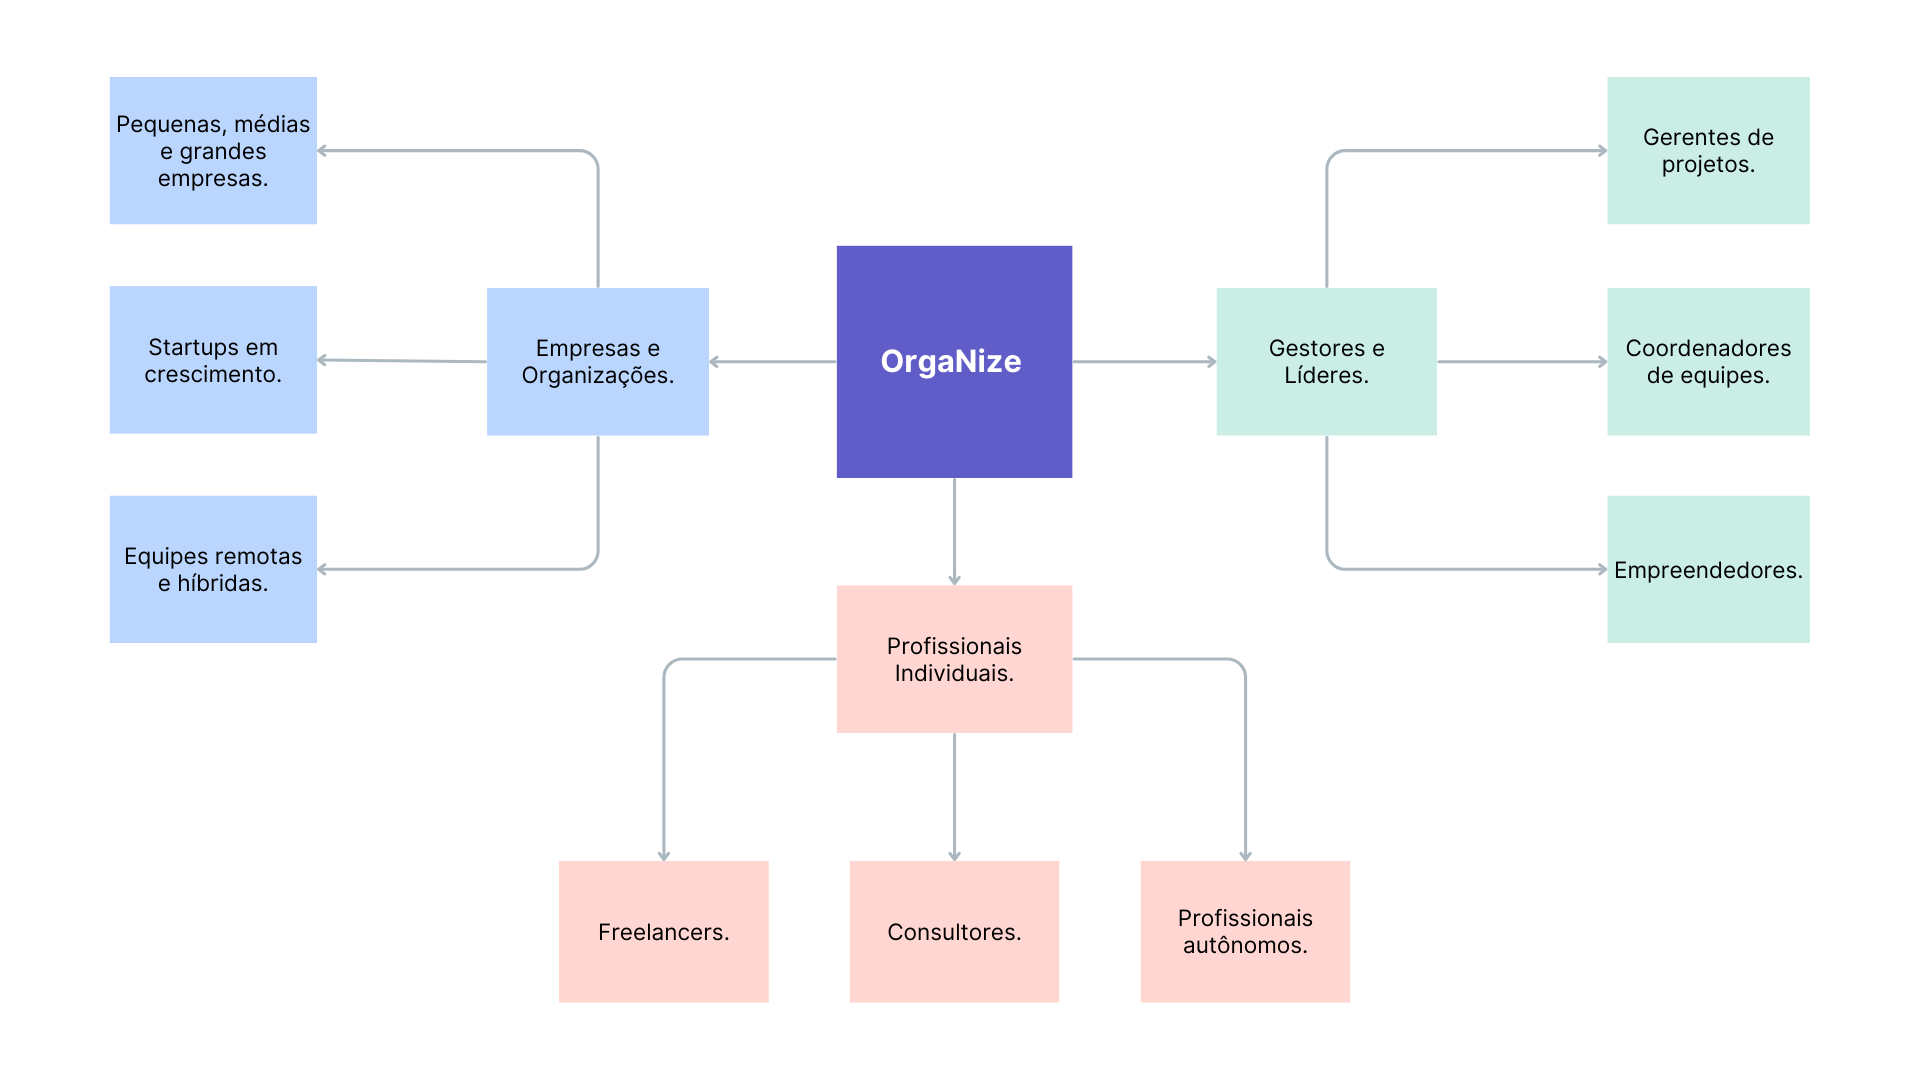
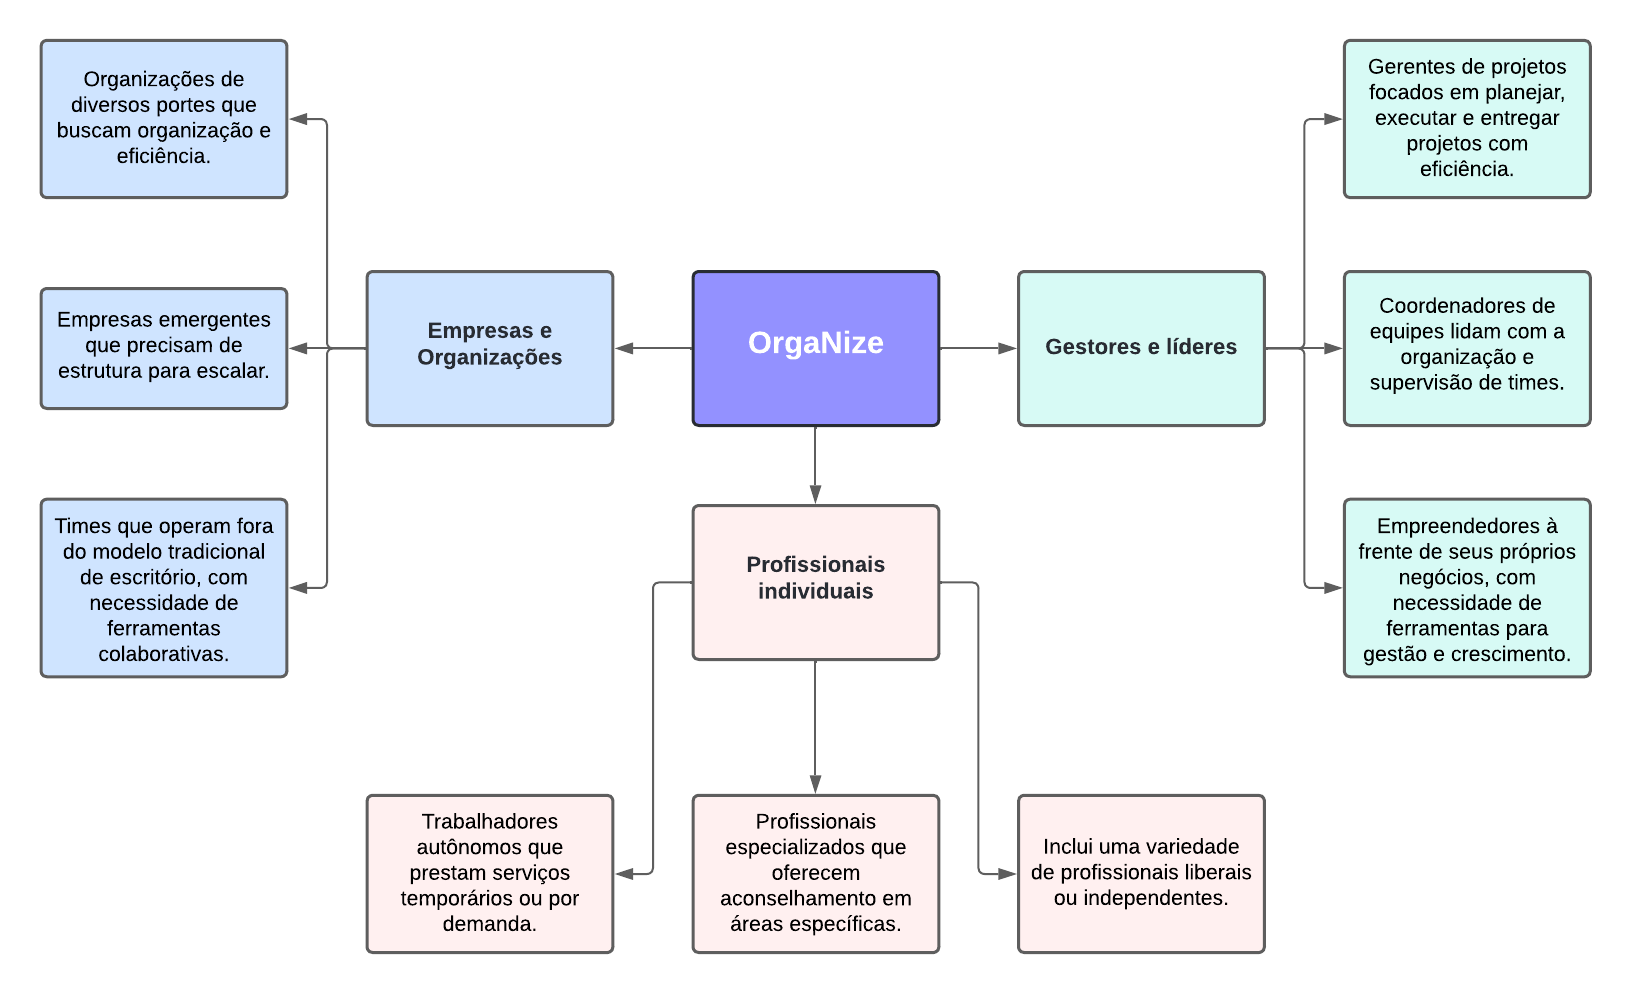
Atualização da documentação - Etapa 2

diff --git a/docs/02-Especificação do Projeto.md b/docs/02-Especificação do Projeto.md
@@ -58,28 +58,25 @@ As tabelas que se seguem apresentam os requisitos funcionais e não funcionais q
 
 ### Requisitos Funcionais
 
-| ID     | Descrição do Requisito                                                                     | Prioridade | Responsável  |
-| ------ | ------------------------------------------------------------------------------------------ | ---------- | ------------ |
-| RF-001 | Permitir que os usuários criem uma conta na plataforma.                                    | ALTA       | Bernardo |
-| RF-002 | Permitir a autenticação dos usuários na plataforma via e-mail e senha.                     | ALTA       | Bernardo |
-| RF-003 | Permitir que os usuários façam logout na plataforma.                                       | ALTA       | Bernardo |
-| RF-004 | Permitir a redefinição de senha dos usuários na plataforma.                                | ALTA       | Guilherme |
-| RF-005 | Permitir a leitura, criação e edição de tarefas na plataforma.                            | ALTA       | Helbert |
-| RF-006 | Permitir que o sistema notifique sobre os prazos e atualizações das tarefas na plataforma. | MÉDIA      | A definir... |
-| RF-007 | Permitir a atribuição e delegação de tarefas entre usuários.                               | MÉDIA      | Helbert |
-| RF-008 | Permitir a visualização do painel de status das tarefas, exemplo: 5/10.                    | MÉDIA      | A definir... |
-| RF-009 | Permitir a classificação de tarefas por prioridade (alta, média ou baixa) e categoria.     | MÉDIA      | A definir... |
-| RF-010 | Permitir a geração de relatórios dentro da plataforma.                                     | BAIXA      | A definir... |
-| RF-011 | Permitir a criacao de usuario "Admin".                                                     | BAIXA      | A definir... |
-| RF-012 | Permitir login por OAuth2                                                                  | BAIXA      | A definir... |
-| RF-013 | Permitir a leitura, edição e exclusão de dados pessoais ao usuário                         | ALTA      | Guilherme |
-| RF-014 | Permitir a leitura de tarefas com base no status ou prioridade                         | ALTA      | Jefferson |
-| RF-015 | Permitir a exclusão de tarefas                         | ALTA      | Jefferson |
-| RF-016 | Permitir a Criação, edição, leitura e exclusão de grupo de tarefas                         | ALTA      | Jonatas |
-| RF-017 | Permitir a adição e exclusão de membro(s) do grupo de tarefas                         | ALTA      | Jonatas |
-
-
-
+| ID     | Descrição do Requisito                                                                     | Prioridade | Responsável |
+| ------ | ------------------------------------------------------------------------------------------ | ---------- | ----------- |
+| RF-001 | Permitir que os usuários criem uma conta na plataforma.                                    | ALTA       | Bernardo    |
+| RF-002 | Permitir a autenticação dos usuários na plataforma via e-mail e senha.                     | ALTA       | Bernardo    |
+| RF-003 | Permitir que os usuários façam logout na plataforma.                                       | ALTA       | Bernardo    |
+| RF-004 | Permitir a redefinição de senha dos usuários na plataforma.                                | ALTA       | Guilherme   |
+| RF-005 | Permitir a leitura, criação e edição de tarefas na plataforma.                             | ALTA       | Helbert     |
+| RF-006 | Permitir que o sistema notifique sobre os prazos e atualizações das tarefas na plataforma. | MÉDIA      | Bianca      |
+| RF-007 | Permitir a atribuição e delegação de tarefas entre usuários.                               | MÉDIA      | Helbert     |
+| RF-008 | Permitir a visualização do painel de status das tarefas, exemplo: 5/10.                    | MÉDIA      | Bianca      |
+| RF-009 | Permitir a classificação de tarefas por prioridade (alta, média ou baixa) e categoria.     | MÉDIA      | Jefferson   |
+| RF-010 | Permitir a geração de relatórios dentro da plataforma.                                     | BAIXA      | Helbert     |
+| RF-011 | Permitir a criacao de usuario "Admin".                                                     | BAIXA      | Jonatas     |
+| RF-012 | Permitir login por OAuth2                                                                  | BAIXA      | Guilherme   |
+| RF-013 | Permitir a leitura, edição e exclusão de dados pessoais ao usuário                         | ALTA       | Guilherme   |
+| RF-014 | Permitir a leitura de tarefas com base no status ou prioridade                             | ALTA       | Jefferson   |
+| RF-015 | Permitir a exclusão de tarefas                                                             | ALTA       | Jefferson   |
+| RF-016 | Permitir a Criação, edição, leitura e exclusão de grupo de tarefas                         | ALTA       | Jonatas     |
+| RF-017 | Permitir a adição e exclusão de membro(s) do grupo de tarefas                              | ALTA       | Jonatas     |
 
 ### Requisitos não Funcionais
 

diff --git a/docs/13-Referências.md b/docs/13-Referências.md
@@ -2,6 +2,10 @@
 
 Inclua todas as referências (livros, artigos, sites, etc) utilizados no desenvolvimento do trabalho.
 
-> **Links Úteis**:
-> - [Formato ABNT](https://www.normastecnicas.com/abnt/trabalhos-academicos/referencias/)
-> - [Referências Bibliográficas da ABNT](https://comunidade.rockcontent.com/referencia-bibliografica-abnt/)
+- OS PAPÉIS DOS STAKEHOLDERS NA FORMULAÇÃO DO PRONATEC. Revista de Administração Pública, Rio de Janeiro, v. 52, n. 6, p. 1147-1168, nov./dez. 2018. Disponível em: https://www.scielo.br/j/rap/a/h5qQSKJGNZVdzdzgQQKQ7Pn/. Acesso em: 12 abr. 2025.
+
+- CARNEIRO NETO, José André. Um mapeamento de práticas em projetos de APIs REST. 2020. Trabalho de Conclusão de Curso (Bacharelado em Ciência da Computação) – Centro de Informática, Universidade Federal de Pernambuco, Recife, 2020. Disponível em: https://www.cin.ufpe.br/~tg/2020-3/TG_CC/tg_jacn.pdf. Acesso em: 12 abr. 2025.
+
+- BAUER, Edinei Jacob. Geração de interfaces de usuário para operações CRUD com base em metadados. 2018. Trabalho de Conclusão de Curso (Bacharelado em Ciência da Computação) – Universidade do Extremo Sul Catarinense, Criciúma, 2018. Disponível em: http://repositorio.unesc.net/bitstream/1/8143/1/EDINEI%20JACOB%20BAUER.pdf. Acesso em: 12 abr. 2025.
+
+- ERSE, Alan Vasconcellos. Desenvolvimento e análise do backend do projeto CuidaIdoso. 2021. Trabalho de Conclusão de Curso (Bacharelado em Ciência da Computação) – Instituto de Ciências Exatas e Biológicas, Universidade Federal de Ouro Preto, Ouro Preto, 2021. Disponível em: https://www.monografias.ufop.br/bitstream/35400000/3274/6/MONOGRAFIA_DesenvolvimentoAn%C3%A1liseBackend.pdf. Acesso em: 12 abr. 2025.

diff --git a/docs/01-Documentação de Contexto.md b/docs/01-Documentação de Contexto.md
@@ -100,6 +100,8 @@ A aplicação será utilizada por diferentes perfis de usuários, cada um com ca
 
 ![Mapa de Stakeholders](img/img_doc01/MapaStakeholders_OrgaNize.png)
 
+A OrgaNize é uma solução voltada para diferentes perfis de stakeholders, abrangendo desde grandes organizações até profissionais autônomos. Entre os principais públicos atendidos estão as empresas e organizações, que incluem pequenas, médias e grandes empresas, startups em crescimento e equipes remotas ou híbridas que buscam mais eficiência e colaboração. Também são stakeholders os gestores e líderes, como gerentes de projetos, coordenadores de equipes e empreendedores, que necessitam de ferramentas para liderar com mais organização. Por fim, a plataforma também atende profissionais individuais, como freelancers, consultores e profissionais autônomos, oferecendo suporte para que gerenciem melhor suas atividades de forma independente.
+
 <!-- > **Links Úteis**:
 >
 > - [Público-alvo](https://blog.hotmart.com/pt-br/publico-alvo/)
